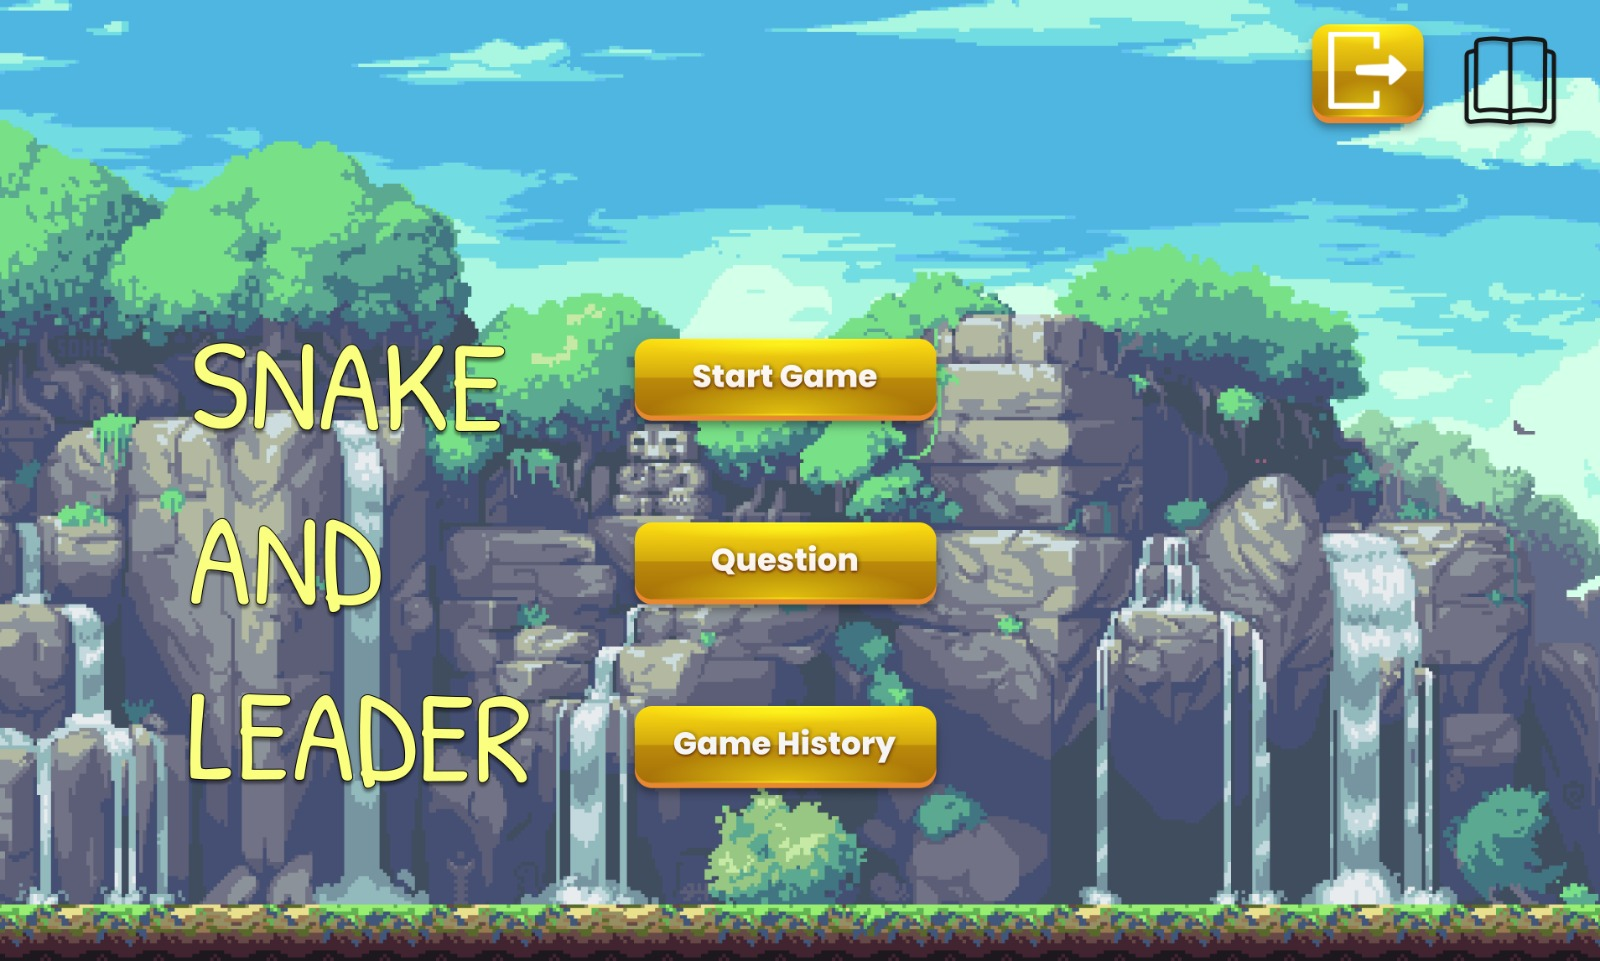
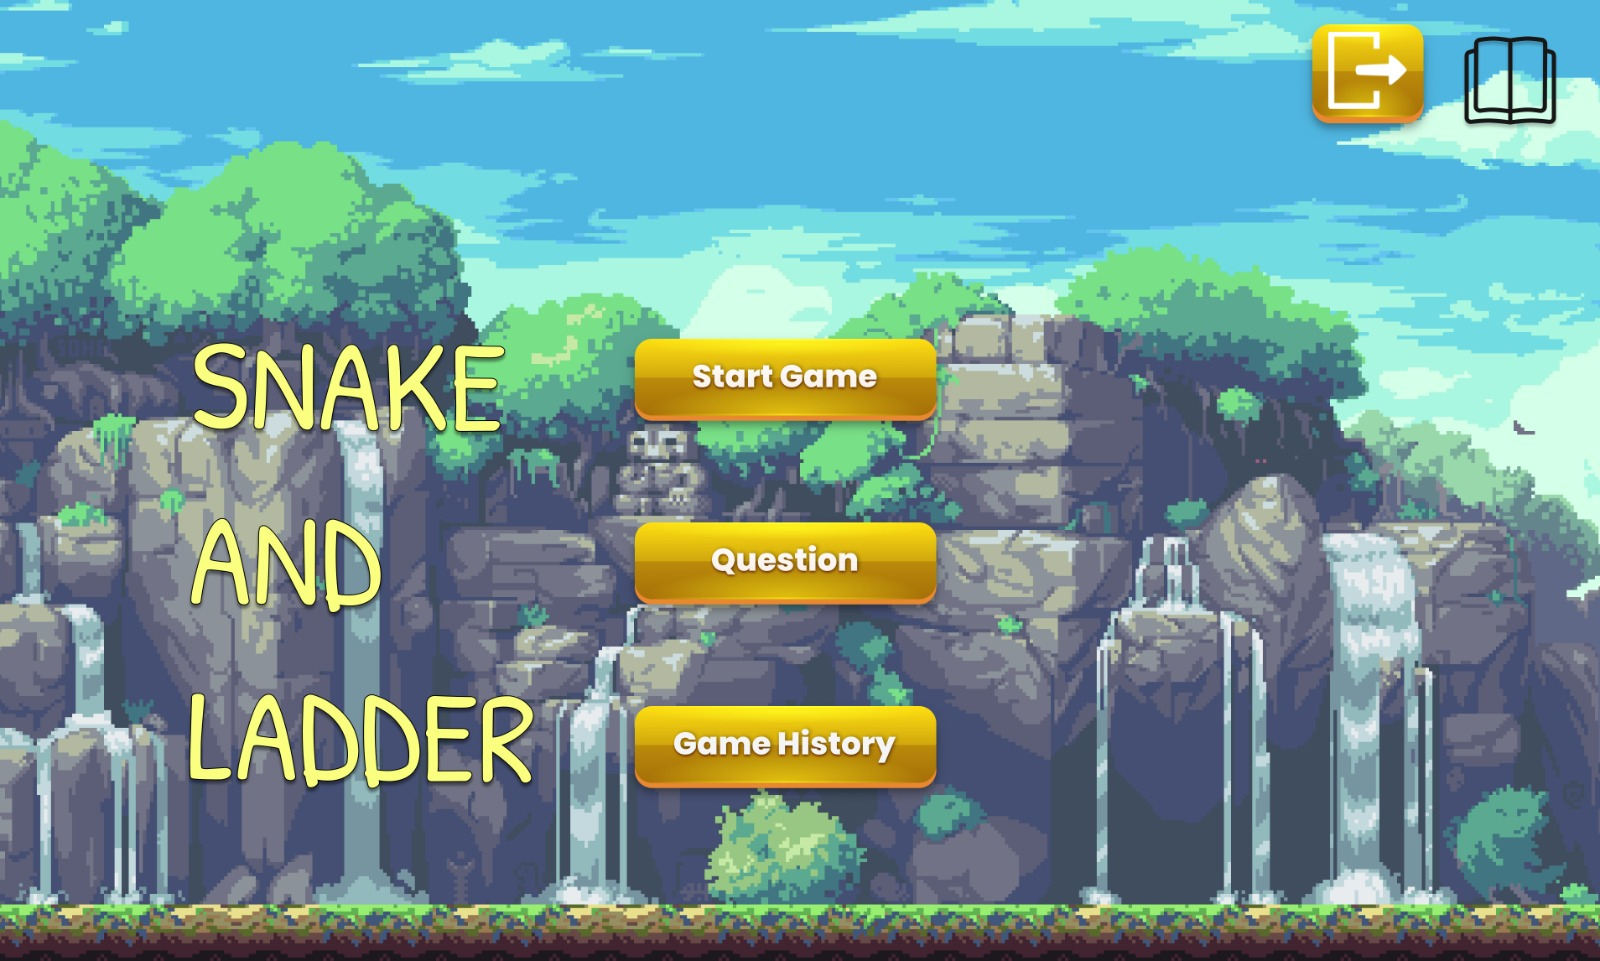
updates

Changed region(s): [[0.125, 0.718, 0.3438, 0.8429]]

diff --git a/src/View/DataReception.java b/src/View/DataReception.java
@@ -37,7 +37,7 @@ public class DataReception extends JFrame {
 
     public DataReception() {
         setDefaultCloseOperation(JFrame.EXIT_ON_CLOSE);
-        setBounds(100, 100, 1047, 568);
+        setBounds(20, 20, 1500, 900);
         contentPane = new JPanel();
         contentPane.setBorder(new EmptyBorder(5, 5, 5, 5));
 
@@ -45,7 +45,7 @@ public class DataReception extends JFrame {
         contentPane.setLayout(null);
 
         JPanel panel = new JPanel();
-        panel.setBounds(0, -17, 1045, 585);
+        panel.setBounds(0, -17, 1500, 917);
         contentPane.add(panel);
         panel.setLayout(null);
         
@@ -53,9 +53,9 @@ public class DataReception extends JFrame {
         setUndecorated(true);
         
         easyButton = new JButton("Easy");
-        easyButton.setFont(new Font("Tahoma", Font.PLAIN, 14));
+        easyButton.setFont(new Font("Times New Roman", Font.BOLD | Font.ITALIC, 22));
         easyButton.setBackground(new Color(218, 165, 32));
-        easyButton.setBounds(192, 215, 201, 48);
+        easyButton.setBounds(262, 392, 234, 68);
         easyButton.addActionListener(new ActionListener() {
             public void actionPerformed(ActionEvent e) {
                 difficultyLevel = "Easy";
@@ -67,9 +67,9 @@ public class DataReception extends JFrame {
         panel.add(easyButton);
 
         mediumButton = new JButton("Medium");
-        mediumButton.setFont(new Font("Tahoma", Font.PLAIN, 14));
+        mediumButton.setFont(new Font("Times New Roman", Font.BOLD | Font.ITALIC, 22));
         mediumButton.setBackground(new Color(218, 165, 32));
-        mediumButton.setBounds(443, 215, 201, 48);
+        mediumButton.setBounds(717, 392, 234, 68);
         panel.add(mediumButton);
         mediumButton.addActionListener(new ActionListener() {
             public void actionPerformed(ActionEvent e) {
@@ -81,10 +81,10 @@ public class DataReception extends JFrame {
         });
 
         hardButton = new JButton("Hard");
-        hardButton.setFont(new Font("Tahoma", Font.PLAIN, 14));
+        hardButton.setFont(new Font("Times New Roman", Font.BOLD | Font.ITALIC, 22));
         hardButton.setBackground(new Color(218, 165, 32));
         hardButton.setForeground(new Color(0, 0, 0));
-        hardButton.setBounds(719, 215, 201, 48);
+        hardButton.setBounds(1145, 392, 229, 68);
         panel.add(hardButton);
         hardButton.addActionListener(new ActionListener() {
             public void actionPerformed(ActionEvent e) {
@@ -97,8 +97,8 @@ public class DataReception extends JFrame {
 
         player2Button = new JButton("2 players");
         player2Button.setBackground(new Color(218, 165, 32));
-        player2Button.setFont(new Font("Tahoma", Font.PLAIN, 14));
-        player2Button.setBounds(192, 389, 201, 43);
+        player2Button.setFont(new Font("Times New Roman", Font.BOLD | Font.ITALIC, 22));
+        player2Button.setBounds(262, 624, 234, 53);
         player2Button.addActionListener(new ActionListener() {
             public void actionPerformed(ActionEvent e) {
                 numberOfPlayers = 2;
@@ -108,9 +108,9 @@ public class DataReception extends JFrame {
             }
         });
         player3Button = new JButton("3 players");
-        player3Button.setFont(new Font("Tahoma", Font.PLAIN, 14));
+        player3Button.setFont(new Font("Times New Roman", Font.BOLD | Font.ITALIC, 22));
         player3Button.setBackground(new Color(218, 165, 32));
-        player3Button.setBounds(443, 389, 201, 43);
+        player3Button.setBounds(717, 624, 234, 49);
         player3Button.addActionListener(new ActionListener() {
             public void actionPerformed(ActionEvent e) {
                 numberOfPlayers = 3;
@@ -121,8 +121,8 @@ public class DataReception extends JFrame {
         });
         player4Button = new JButton("4 players");
         player4Button.setBackground(new Color(218, 165, 32));
-        player4Button.setFont(new Font("Tahoma", Font.PLAIN, 14));
-        player4Button.setBounds(719, 389, 201, 43);
+        player4Button.setFont(new Font("Times New Roman", Font.BOLD | Font.ITALIC, 22));
+        player4Button.setBounds(1145, 624, 229, 53);
         player4Button.addActionListener(new ActionListener() {
             public void actionPerformed(ActionEvent e) {
                 numberOfPlayers = 4;
@@ -146,7 +146,7 @@ public class DataReception extends JFrame {
                 gameController.buttonClick();
              }
          });
-        btnNewButton.setBounds(10, 524, 137, 50);
+        btnNewButton.setBounds(20, 818, 177, 66);
         panel.add(btnNewButton);
         
         JButton btnNewButton_1 = new JButton("");
@@ -175,18 +175,13 @@ public class DataReception extends JFrame {
                 }
         	}
         });
-        btnNewButton_1.setBounds(898, 515, 137, 50);
+        btnNewButton_1.setBounds(1300, 805, 177, 66);
         panel.add(btnNewButton_1);
-         
-         JLabel lblNewLabel_1 = new JLabel("Pick A Level And number of Players");
-         lblNewLabel_1.setFont(new Font("Tahoma", Font.BOLD | Font.ITALIC, 24));
-         lblNewLabel_1.setBounds(359, 36, 467, 63);
-         panel.add(lblNewLabel_1);
         
          JLabel lblNewLabel = new JLabel("");
-         lblNewLabel.setBounds(-68, -50, 1140, 705);
+         lblNewLabel.setBounds(-68, -50, 1568, 1039);
          panel.add(lblNewLabel);
-         lblNewLabel.setIcon(new ImageIcon(DataReception.class.getResource("/images/datareception.jpg")));
+         lblNewLabel.setIcon(new ImageIcon(DataReception.class.getResource("/images/datareception.jpeg")));
     }
          
  // Disable other difficulty buttons when one is selected

diff --git a/src/View/PlayerNicknames2.java b/src/View/PlayerNicknames2.java
@@ -39,7 +39,7 @@ public class PlayerNicknames2 extends JFrame {
 		this.numberOfPlayers=numberOfPlayers;
 		this.difficultyLevel=difficultyLevel;
 		setDefaultCloseOperation(JFrame.EXIT_ON_CLOSE);
-		setBounds(100, 100, 1019, 616);
+		setBounds(20, 20, 1500, 900);
 		contentPane = new JPanel();
 		contentPane.setBorder(new EmptyBorder(5, 5, 5, 5));
 
@@ -48,13 +48,13 @@ public class PlayerNicknames2 extends JFrame {
 		 // Make the frame undecorated (no title bar, no minimize/maximize/close buttons)
         setUndecorated(true);
 		
-		Next = new JButton("Next");
+		Next = new JButton("");
         Next.setIcon(new ImageIcon(DataReception.class.getResource("/images/NextButton.png")));
-		Next.setBounds(840, 558, 150, 47);
+		Next.setBounds(1313, 809, 177, 66);
 		contentPane.add(Next);
 		
-		JButton Back = new JButton("Back");
-		 Back.setIcon(new ImageIcon(DataReception.class.getResource("/images/BackButton.png")));
+		JButton Back = new JButton("");
+		 Back.setIcon(new ImageIcon(PlayerNicknames2.class.getResource("/images/BackButton.png")));
          Back.addActionListener(new ActionListener() {
 			public void actionPerformed(ActionEvent e) {
             	 PlayerNicknames2.this.setVisible(false);
@@ -62,26 +62,28 @@ public class PlayerNicknames2 extends JFrame {
                 gameController.buttonClick();
              }
          });
-		Back.setBounds(20, 558, 150, 50);
+		Back.setBounds(23, 809, 177, 66);
 		contentPane.add(Back);
 		
 		
 		
 		JLabel lblNewLabel_1_1 = new JLabel("Player 2");
-		lblNewLabel_1_1.setFont(new Font("Segoe UI Black", Font.PLAIN, 20));
-		lblNewLabel_1_1.setBounds(339, 365, 126, 36);
+		lblNewLabel_1_1.setForeground(new java.awt.Color(100, 149, 237));
+		lblNewLabel_1_1.setFont(new Font("Segoe UI Black", Font.BOLD | Font.ITALIC, 23));
+		lblNewLabel_1_1.setBounds(475, 539, 126, 36);
 		contentPane.add(lblNewLabel_1_1);
-		lblNewLabel_1.setFont(new Font("Segoe UI Black", Font.PLAIN, 20));
-		lblNewLabel_1.setBounds(339, 258, 126, 36);
+		lblNewLabel_1.setForeground(new java.awt.Color(0, 128, 0));
+		lblNewLabel_1.setFont(new Font("Segoe UI Black", Font.BOLD | Font.ITALIC, 23));
+		lblNewLabel_1.setBounds(475, 359, 126, 36);
 		contentPane.add(lblNewLabel_1);
 		
 		textField1 = new JTextField();
 		textField1.setColumns(10);
-		textField1.setBounds(465, 262, 164, 36);
+		textField1.setBounds(639, 358, 202, 47);
 		contentPane.add(textField1);
 		
 		textField2 = new JTextField();
-		textField2.setBounds(465, 369, 164, 36);
+		textField2.setBounds(639, 538, 209, 47);
 		contentPane.add(textField2);
 		textField2.setColumns(10);
 		textField1.addKeyListener(new KeyAdapter() {
@@ -103,8 +105,8 @@ public class PlayerNicknames2 extends JFrame {
         initializeNextButtonAction(); 
 
 		JLabel lblNewLabel = new JLabel("");
-		lblNewLabel.setIcon(new ImageIcon(PlayerNicknames2.class.getResource("/images/pickeplayer.jpg")));
-		lblNewLabel.setBounds(0, -76, 1019, 737);
+		lblNewLabel.setIcon(new ImageIcon(PlayerNicknames2.class.getResource("/images/pickeplayer.jpeg")));
+		lblNewLabel.setBounds(0, -76, 1529, 997);
 		contentPane.add(lblNewLabel);
 	}
 	private boolean isValidString(String str) {// the checks if the name is valid - not null or empty value

diff --git a/src/View/MainScreen.java b/src/View/MainScreen.java
@@ -22,18 +22,18 @@ public class MainScreen extends JFrame{
  		Sound sound = new Sound("src/sounds/start.wav");
  		sound.play();
 		setDefaultCloseOperation(JFrame.EXIT_ON_CLOSE);
-		setBounds(100, 100, 1166, 687);
+		setBounds(20, 20, 1525, 900);
         getContentPane().setLayout(null);
         
         // Make the frame undecorated (no title bar, no minimize/maximize/close buttons)
         setUndecorated(true);
 
         JLabel lblNewLabel_1 = new JLabel("");
-        lblNewLabel_1.setBounds(1073, 21, 55, 59);
+        lblNewLabel_1.setBounds(1421, 21, 74, 77);
         getContentPane().add(lblNewLabel_1);
         
         JLabel lblNewLabel_2 = new JLabel("");
-        lblNewLabel_2.setBounds(471, 249, 200, 30);
+        lblNewLabel_2.setBounds(601, 325, 258, 69);
         getContentPane().add(lblNewLabel_2);
         lblNewLabel_2.addMouseListener(new MouseAdapter() {
             @Override
@@ -57,7 +57,7 @@ public class MainScreen extends JFrame{
         });
        
         JLabel lblNewLabel_2_1 = new JLabel("");
-        lblNewLabel_2_1.setBounds(471, 385, 200, 35);
+        lblNewLabel_2_1.setBounds(601, 505, 258, 69);
         getContentPane().add(lblNewLabel_2_1);
         lblNewLabel_2_1.addMouseListener(new MouseAdapter() {
             @Override
@@ -71,7 +71,7 @@ public class MainScreen extends JFrame{
         
         
         JLabel lblNewLabel_3 = new JLabel("");
-        lblNewLabel_3.setBounds(471, 514, 200, 40);
+        lblNewLabel_3.setBounds(601, 696, 271, 54);
         getContentPane().add(lblNewLabel_3);
         lblNewLabel_3.addMouseListener(new MouseAdapter() {
             @Override
@@ -85,12 +85,12 @@ public class MainScreen extends JFrame{
         });
         
         JLabel lblNewLabel = new JLabel("");
-        lblNewLabel.setIcon(new ImageIcon(MainScreen.class.getResource("/images/MainScreen.jpg")));
-        lblNewLabel.setBounds(0,-41, 1470, 769);
+        lblNewLabel.setIcon(new ImageIcon(MainScreen.class.getResource("/images/MainScreen.jpeg")));
+        lblNewLabel.setBounds(-53,-93, 1600, 1104);
         getContentPane().add(lblNewLabel);
         
         JLabel lblNewLabel_4 = new JLabel("");
-        lblNewLabel_4.setBounds(960, 11, 68, 69);
+        lblNewLabel_4.setBounds(1263, 11, 105, 87);
         getContentPane().add(lblNewLabel_4);
         lblNewLabel_4.addMouseListener(new MouseAdapter() {
             @Override

diff --git a/src/View/Instructions.java b/src/View/Instructions.java
@@ -20,7 +20,7 @@ public class Instructions extends JFrame {
     public Instructions() {
         setType(Type.POPUP);
         setDefaultCloseOperation(JFrame.EXIT_ON_CLOSE);
-        setBounds(10, 10, 1232, 694); // Set the bounds of the JFrame
+        setBounds(10, 10, 1570, 900); // Set the bounds of the JFrame
         contentPane = new JPanel();
         contentPane.setBorder(new EmptyBorder(5, 5, 5, 5));
         setContentPane(contentPane);
@@ -32,7 +32,7 @@ public class Instructions extends JFrame {
         JLabel lblNewLabel_1 = new JLabel("");
         lblNewLabel_1.setForeground(Color.BLACK);
         lblNewLabel_1.setFont(new Font("Comic Sans MS", Font.BOLD | Font.ITALIC, 22));
-        lblNewLabel_1.setBounds(1023, 45, 137, 40);
+        lblNewLabel_1.setBounds(1279, 55, 170, 40);
         contentPane.add(lblNewLabel_1);
         lblNewLabel_1.addMouseListener(new MouseAdapter() {
             @Override
@@ -43,8 +43,8 @@ public class Instructions extends JFrame {
         });
         JLabel lblNewLabel = new JLabel("");
         lblNewLabel.setForeground(Color.WHITE);
-        lblNewLabel.setBounds(0, -70, 1282, 830);
-        lblNewLabel.setIcon(new ImageIcon(Instructions.class.getResource("/images/instruction.jpg")));
+        lblNewLabel.setBounds(-30, -70, 1600, 1024);
+        lblNewLabel.setIcon(new ImageIcon(Instructions.class.getResource("/images/instruction.jpeg")));
         contentPane.add(lblNewLabel); // Add the label to the content pane
      
     }

diff --git a/src/Controller/GameController.java b/src/Controller/GameController.java
@@ -379,7 +379,7 @@ public class GameController {
         contentPanel.add(answer4Panel);
 
         // Customize background color and font
-        //contentPanel.setBackground(java.awt.Color.BLUE);
+        contentPanel.setBackground(java.awt.Color.WHITE);
         Font labelFont = questionField.getFont();
         questionField.setFont(new Font(labelFont.getName(), Font.BOLD, labelFont.getSize())); // Bold font for question
         answer1Field.setFont(new Font(labelFont.getName(), Font.BOLD, labelFont.getSize())); // Bold font for question
@@ -400,7 +400,6 @@ public class GameController {
         JDialog dialog = optionPane.createDialog(frame, "Answer Question");
 
         // Customize the dialog
-        dialog.getContentPane().setBackground(java.awt.Color.BLUE);
         dialog.setDefaultCloseOperation(JDialog.DISPOSE_ON_CLOSE); // Allow closing the dialog
         dialog.setResizable(false); // Disable resizing
 
